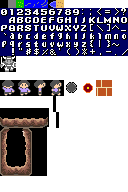
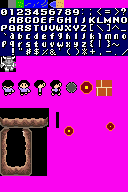
Game files

diff --git a/src/sokoban/Sokoban.java b/src/sokoban/Sokoban.java
@@ -37,11 +37,12 @@ public class Sokoban implements GameListener {
 //        new Wall(level, 50, 50);
 //        new Box(level, 10, 50);
 //        new Goal(level, 40, 50);
+        game.player = new Player(level, 0, 50, input);
+        new Box(level, 10, 80);
+        new Goal(level, 40, 80);
 //
-//        new Box(level, 10, 80);
-//        new Goal(level, 40, 80);
-//
-//        new Lantern(level, 20, 10);
+        new Lantern(level, 20, 10);
+        new Lantern(level, 60, 10);
 
         init(q);
 
@@ -52,40 +53,27 @@ public class Sokoban implements GameListener {
         game.setLighting(true);
         game.setDaylightCycle(false);
         game.setCycleTime(1);
-        game.setLight(0);
+        game.setLight();
+
 
         game.start();
     }
 
 
     public void init(String sokoban) {
-        frame.add(new ArrayList<>());
+        String[] sokobanSplit = sokoban.split("\\||\\n");
 
-        for (char c : sokoban.toCharArray()) {
-            if (c == '\n' || c == '|') {
-                frame.add(new ArrayList<>());
-            }
-            frame.get(frame.size()-1).add(false);
-        }
-
-
-
-        int sokoban_width = frame.get(0).size();
-        int sokoban_height = frame.size();
-        System.out.printf("sokoban: %s %s\n", sokoban_height, sokoban_width);
-
+        int sokoban_width = sokobanSplit[0].length();
+        int sokoban_height = sokobanSplit.length;
 
         int x_level_centrum = (level.width<<3)/2;
-        int y_level_centrum = (level.height<<3)/2;
-        System.out.printf("level centrum: %s %s\n", x_level_centrum, y_level_centrum);
+        int y_level_centrum = (level.height << 3)/2;
+
         int xOrigo = (x_level_centrum-(sokoban_width<<3));
         int yOrigo = (y_level_centrum-(sokoban_height<<3));
         
         int x = xOrigo;
         int y = yOrigo;
-
-        System.out.printf("x y: %s %s\n", x, y);
-        Player player = null;
 
         for (char cell : sokoban.toCharArray()) {
             switch (cell) {
@@ -104,7 +92,7 @@ public class Sokoban implements GameListener {
                     new Goal(level,x, y);
                     break;
                 case '@':
-                    player = new Player(level, x, y, input, "Player");
+                    game.player = new Player(level, x, y, input, "Player");
                     break;
                 case '$':
                     new Box(level, x, y);
@@ -114,7 +102,7 @@ public class Sokoban implements GameListener {
                     new Goal(level, x, y);
                     break;
                 case '+':
-                    player = new Player(level, x, y, input, "Player");
+                    game.player = new Player(level, x, y, input, "Player");
                     new Goal(level, x, y);
                     break;
                 default:
@@ -122,7 +110,6 @@ public class Sokoban implements GameListener {
             }
             x += 16;
         }
-        game.player = player;
     }
 
 

diff --git a/src/game/gfx/Screen.java b/src/game/gfx/Screen.java
@@ -3,7 +3,10 @@ package game.gfx;
 import game.Game;
 import game.entities.Entity;
 
-import java.util.*;
+import java.util.Arrays;
+import java.util.HashMap;
+import java.util.List;
+
 
 public class Screen {
 
@@ -16,7 +19,7 @@ public class Screen {
     private boolean lightOn = true;
     HashMap<Entity, Integer[]> lightSources = new HashMap<>();
 
-    private List<Integer> defaultIgnoreColors = Arrays.asList(0x000000);
+    private List<Integer> defaultIgnoreColors = Arrays.asList(0xfa05f0);
 
     public int[] pixels;
 
@@ -112,21 +115,22 @@ public class Screen {
 
 
     private Integer lightCombiner(int i) {
-        int r = 0;
+        int r = -0xffffff;
         boolean isNull = true;
 
         Integer temp;
         for (Integer[] light : lightSources.values()) {
-//            System.out.println(lights.size());
-//            for (Integer integer : light) {
-//                System.out.println(integer);
-//            }
+//
             temp = light[i];
             if (temp != null) {
                 isNull = false;
-                r = temp;
+
+                r = temp > r ? temp:r;
             }
         }
+
+
+
 
         if (isNull) {
             return null;

diff --git a/src/sokoban/cells/Box.java b/src/sokoban/cells/Box.java
@@ -19,7 +19,7 @@ public class Box extends Mob {
         super(level, "Box", x, y, 1);
         solid = true;
         pushable = true;
-        dimentions = new int[]{15, 0, 16, 0};
+        dimentions = new int[]{14, 1, 14, 1};
 
     }
 
@@ -37,10 +37,10 @@ public class Box extends Mob {
 
     @Override
     public void render(Screen screen) {
-        screen.render(x, y, 5 + 5*8, 0, 1, 16, Arrays.asList(0xffffff));
+        screen.render(x, y, 5 + 5*8, 0, 1, 16, Arrays.asList(0xfa05f0));
 
         if (renderLight) {
-            screen.renderRoundLight(x + 5, y + 8, 8, -0x66, Light.SOFT, this);
+            screen.renderRoundLight(x + 4, y + 7 , 9, -0x77, Light.SOFT, this);
         } else screen.removeLightSource(this);
 
 
@@ -49,7 +49,6 @@ public class Box extends Mob {
     @Override
     public void isPushed(int x, int y) {
         move(x, y);
-
     }
 
 }

diff --git a/src/game/entities/Entity.java b/src/game/entities/Entity.java
@@ -61,6 +61,10 @@ public abstract class Entity implements Comparable{
     protected boolean isSolidEntity(int xa, int ya, int x, int y) {
         if (level == null) return false;
 
+//        if (!(this instanceof Player)) {
+//            return true;
+//        }
+
         x += this.x+xa;
         y += this.y+ya;
 
@@ -68,7 +72,7 @@ public abstract class Entity implements Comparable{
         for (Entity entity : level.entities) {
             if (!entity.equals(this) && (e = entity.getEntity(x, y)) != null) {
                 if (e.isSolid() && !e.equals(this)) {
-                    if (e instanceof Mob) {
+                    if (e instanceof Mob && this instanceof Player) {
                         e.isPushed(xa, ya);
                     }
                     return true;

diff --git a/src/game/entities/Player.java b/src/game/entities/Player.java
@@ -25,6 +25,10 @@ public class Player extends Mob implements Actable {
     private boolean isJumping;
     private int jumpTime;
 
+    public Player(Level level, int x, int y, InputHandler input) {
+        this(level, x, y, input, "Player");
+    }
+
     public Player(Level level, int x, int y, InputHandler input, String username) {
         super(level, "Player", x, y, 1);
         this.input = input;

diff --git a/src/sokoban/cells/Lantern.java b/src/sokoban/cells/Lantern.java
@@ -42,7 +42,7 @@ public class Lantern extends Mob implements Actable{
     @Override
     public void render(Screen screen) {
 
-        screen.renderRoundLight(x, y, 50, -0x33, 6, 6, light, this);
+        screen.renderRoundLight(x, y, 50, 0, 6, 6, light, this);
 
         if (!isHeld) {
             screen.render(x, y, lanternSheet, 0 , 0, 1, 16, Arrays.asList(0xffffff));
